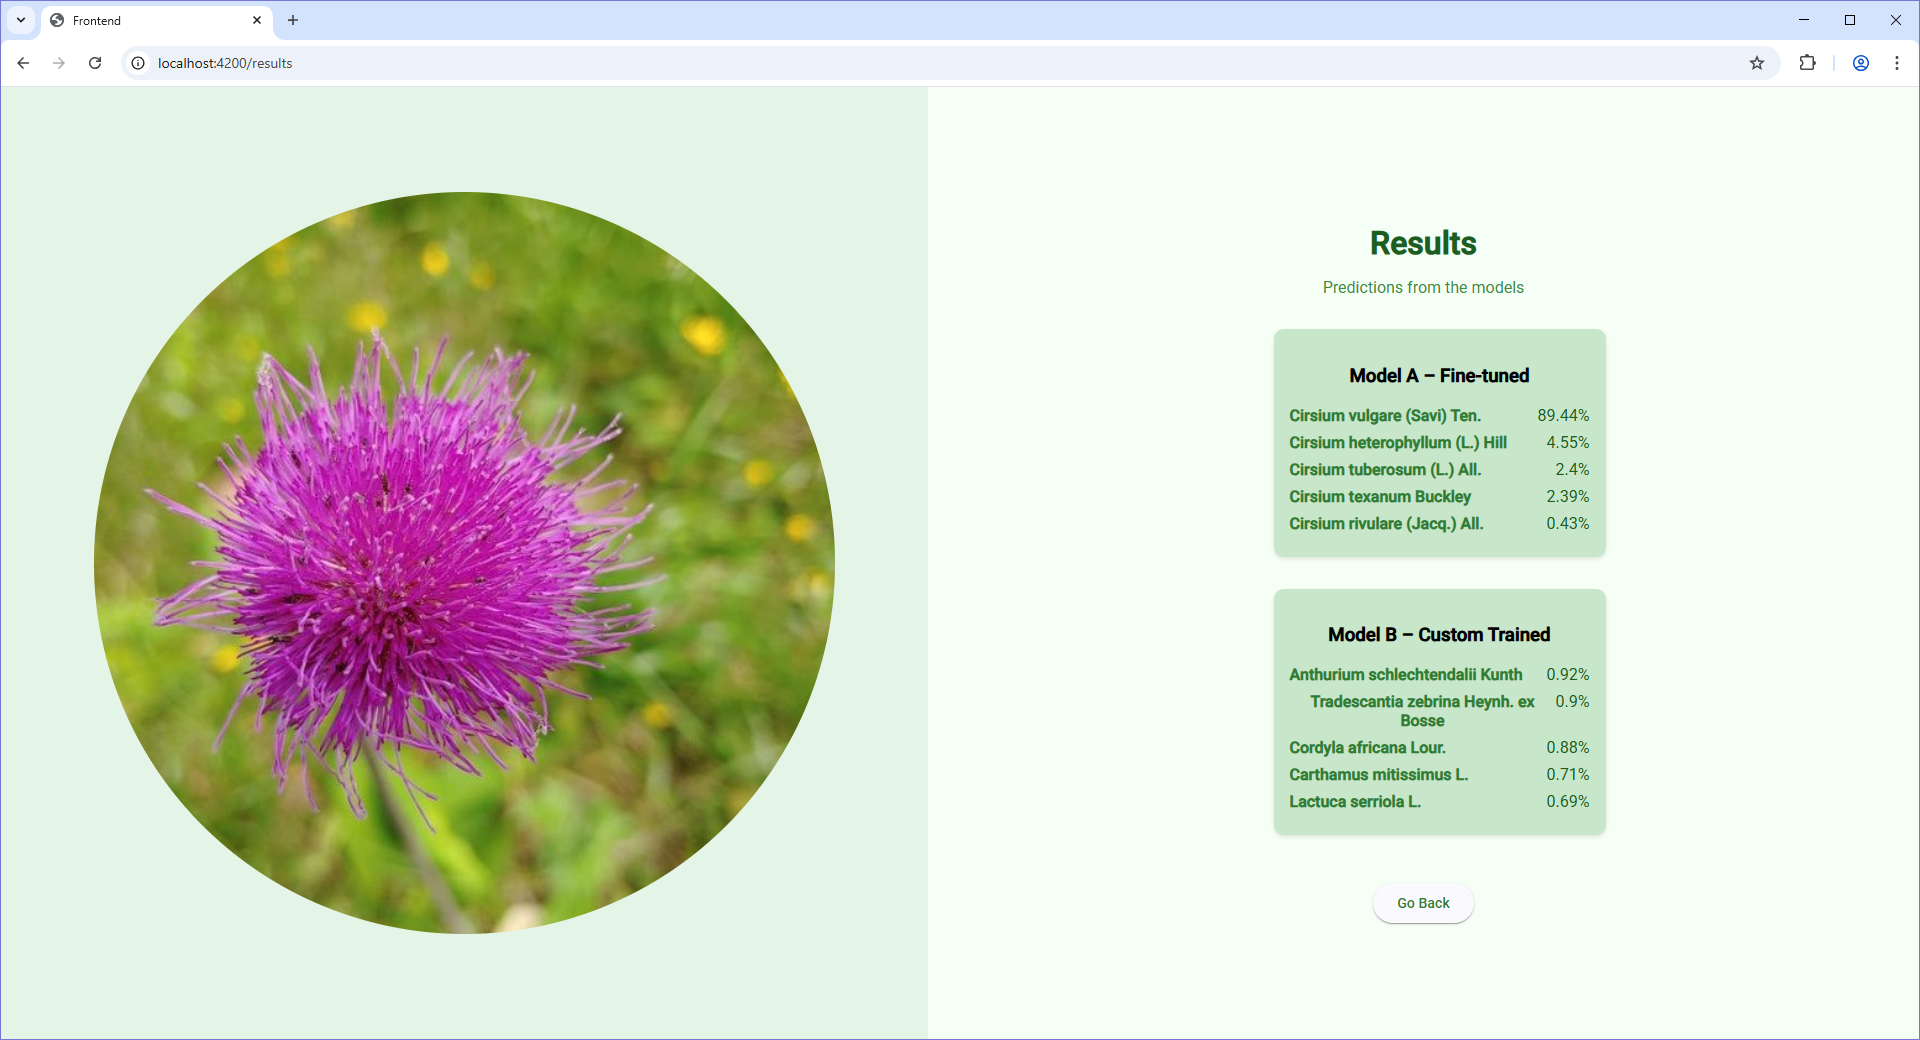
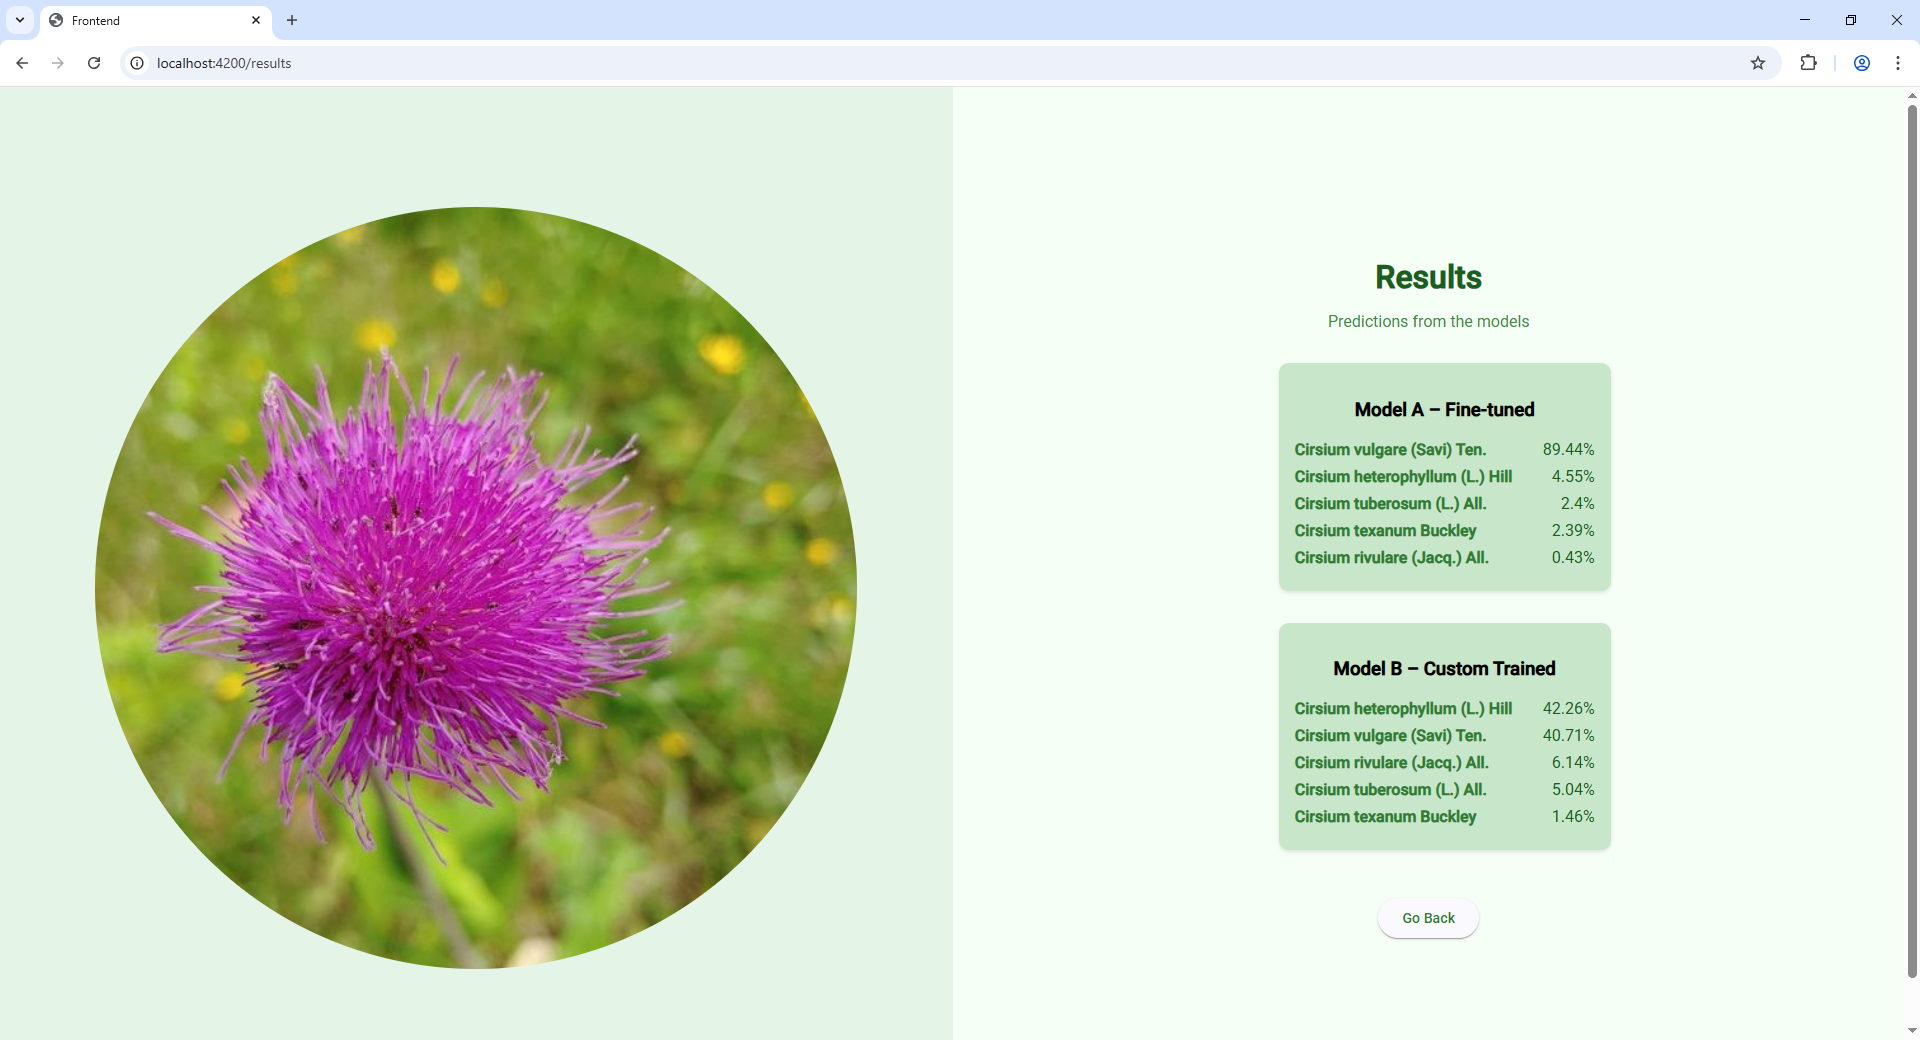
Update README.md

diff --git a/README.md b/README.md
@@ -1,6 +1,6 @@
 # GreenEye
 
-GreenEye is an AI-powered environmental monitoring system that detects and analyzes environmental changes using computer vision and machine learning. The platform features an Angular frontend for user interaction and a Flask backend for inference and data processing.
+GreenEye is an application designed to identify plant species based on a picture uploaded by the user. It outputs a ranked list of the top five most likely plant species, based on two machine learning models: a pretrained model (Pl@ntNet-300K) and a custom model trained by the development team. 
 
 ---
 
